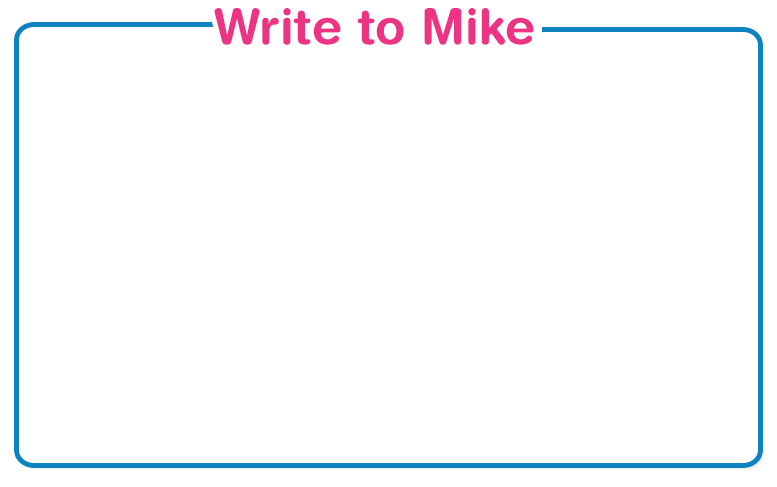
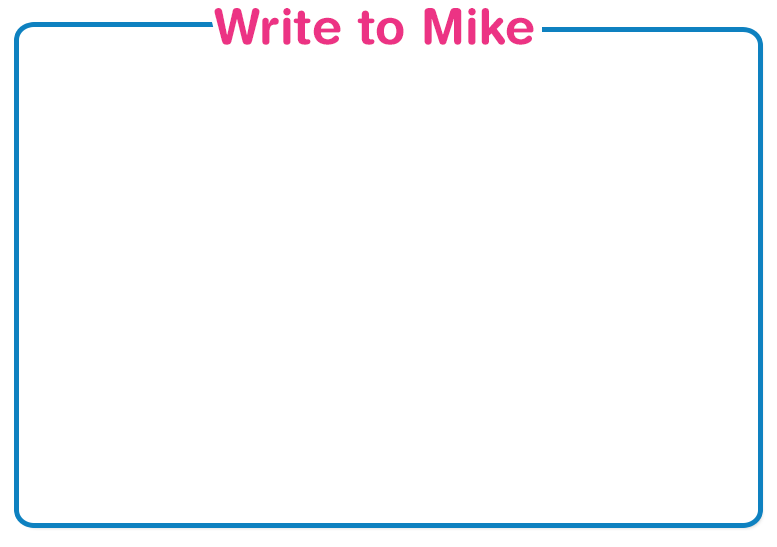
Front-end updates.

Changed region(s): [[0.0, 0.924, 0.9884, 0.9856], [0.0, 0.0308, 0.9884, 0.0924], [0.5869, 0.0, 0.6178, 0.0308]]

diff --git a/Website/CSWeb/Scripts/modernizr.custom.32854.js b/Website/CSWeb/Scripts/modernizr.custom.32854.js
@@ -1,0 +1,4 @@
+/* Modernizr 2.6.2 (Custom Build) | MIT & BSD
+ * Build: http://modernizr.com/download/#-input-shiv-cssclasses-load
+ */
+;window.Modernizr=function(a,b,c){function u(a){j.cssText=a}function v(a,b){return u(prefixes.join(a+";")+(b||""))}function w(a,b){return typeof a===b}function x(a,b){return!!~(""+a).indexOf(b)}function y(a,b,d){for(var e in a){var f=b[a[e]];if(f!==c)return d===!1?a[e]:w(f,"function")?f.bind(d||b):f}return!1}function z(){e.input=function(c){for(var d=0,e=c.length;d<e;d++)o[c[d]]=c[d]in k;return o.list&&(o.list=!!b.createElement("datalist")&&!!a.HTMLDataListElement),o}("autocomplete autofocus list placeholder max min multiple pattern required step".split(" "))}var d="2.6.2",e={},f=!0,g=b.documentElement,h="modernizr",i=b.createElement(h),j=i.style,k=b.createElement("input"),l={}.toString,m={},n={},o={},p=[],q=p.slice,r,s={}.hasOwnProperty,t;!w(s,"undefined")&&!w(s.call,"undefined")?t=function(a,b){return s.call(a,b)}:t=function(a,b){return b in a&&w(a.constructor.prototype[b],"undefined")},Function.prototype.bind||(Function.prototype.bind=function(b){var c=this;if(typeof c!="function")throw new TypeError;var d=q.call(arguments,1),e=function(){if(this instanceof e){var a=function(){};a.prototype=c.prototype;var f=new a,g=c.apply(f,d.concat(q.call(arguments)));return Object(g)===g?g:f}return c.apply(b,d.concat(q.call(arguments)))};return e});for(var A in m)t(m,A)&&(r=A.toLowerCase(),e[r]=m[A](),p.push((e[r]?"":"no-")+r));return e.input||z(),e.addTest=function(a,b){if(typeof a=="object")for(var d in a)t(a,d)&&e.addTest(d,a[d]);else{a=a.toLowerCase();if(e[a]!==c)return e;b=typeof b=="function"?b():b,typeof f!="undefined"&&f&&(g.className+=" "+(b?"":"no-")+a),e[a]=b}return e},u(""),i=k=null,function(a,b){function k(a,b){var c=a.createElement("p"),d=a.getElementsByTagName("head")[0]||a.documentElement;return c.innerHTML="x<style>"+b+"</style>",d.insertBefore(c.lastChild,d.firstChild)}function l(){var a=r.elements;return typeof a=="string"?a.split(" "):a}function m(a){var b=i[a[g]];return b||(b={},h++,a[g]=h,i[h]=b),b}function n(a,c,f){c||(c=b);if(j)return c.createElement(a);f||(f=m(c));var g;return f.cache[a]?g=f.cache[a].cloneNode():e.test(a)?g=(f.cache[a]=f.createElem(a)).cloneNode():g=f.createElem(a),g.canHaveChildren&&!d.test(a)?f.frag.appendChild(g):g}function o(a,c){a||(a=b);if(j)return a.createDocumentFragment();c=c||m(a);var d=c.frag.cloneNode(),e=0,f=l(),g=f.length;for(;e<g;e++)d.createElement(f[e]);return d}function p(a,b){b.cache||(b.cache={},b.createElem=a.createElement,b.createFrag=a.createDocumentFragment,b.frag=b.createFrag()),a.createElement=function(c){return r.shivMethods?n(c,a,b):b.createElem(c)},a.createDocumentFragment=Function("h,f","return function(){var n=f.cloneNode(),c=n.createElement;h.shivMethods&&("+l().join().replace(/\w+/g,function(a){return b.createElem(a),b.frag.createElement(a),'c("'+a+'")'})+");return n}")(r,b.frag)}function q(a){a||(a=b);var c=m(a);return r.shivCSS&&!f&&!c.hasCSS&&(c.hasCSS=!!k(a,"article,aside,figcaption,figure,footer,header,hgroup,nav,section{display:block}mark{background:#FF0;color:#000}")),j||p(a,c),a}var c=a.html5||{},d=/^<|^(?:button|map|select|textarea|object|iframe|option|optgroup)$/i,e=/^(?:a|b|code|div|fieldset|h1|h2|h3|h4|h5|h6|i|label|li|ol|p|q|span|strong|style|table|tbody|td|th|tr|ul)$/i,f,g="_html5shiv",h=0,i={},j;(function(){try{var a=b.createElement("a");a.innerHTML="<xyz></xyz>",f="hidden"in a,j=a.childNodes.length==1||function(){b.createElement("a");var a=b.createDocumentFragment();return typeof a.cloneNode=="undefined"||typeof a.createDocumentFragment=="undefined"||typeof a.createElement=="undefined"}()}catch(c){f=!0,j=!0}})();var r={elements:c.elements||"abbr article aside audio bdi canvas data datalist details figcaption figure footer header hgroup mark meter nav output progress section summary time video",shivCSS:c.shivCSS!==!1,supportsUnknownElements:j,shivMethods:c.shivMethods!==!1,type:"default",shivDocument:q,createElement:n,createDocumentFragment:o};a.html5=r,q(b)}(this,b),e._version=d,g.className=g.className.replace(/(^|\s)no-js(\s|$)/,"$1$2")+(f?" js "+p.join(" "):""),e}(this,this.document),function(a,b,c){function d(a){return"[object Function]"==o.call(a)}function e(a){return"string"==typeof a}function f(){}function g(a){return!a||"loaded"==a||"complete"==a||"uninitialized"==a}function h(){var a=p.shift();q=1,a?a.t?m(function(){("c"==a.t?B.injectCss:B.injectJs)(a.s,0,a.a,a.x,a.e,1)},0):(a(),h()):q=0}function i(a,c,d,e,f,i,j){function k(b){if(!o&&g(l.readyState)&&(u.r=o=1,!q&&h(),l.onload=l.onreadystatechange=null,b)){"img"!=a&&m(function(){t.removeChild(l)},50);for(var d in y[c])y[c].hasOwnProperty(d)&&y[c][d].onload()}}var j=j||B.errorTimeout,l=b.createElement(a),o=0,r=0,u={t:d,s:c,e:f,a:i,x:j};1===y[c]&&(r=1,y[c]=[]),"object"==a?l.data=c:(l.src=c,l.type=a),l.width=l.height="0",l.onerror=l.onload=l.onreadystatechange=function(){k.call(this,r)},p.splice(e,0,u),"img"!=a&&(r||2===y[c]?(t.insertBefore(l,s?null:n),m(k,j)):y[c].push(l))}function j(a,b,c,d,f){return q=0,b=b||"j",e(a)?i("c"==b?v:u,a,b,this.i++,c,d,f):(p.splice(this.i++,0,a),1==p.length&&h()),this}function k(){var a=B;return a.loader={load:j,i:0},a}var l=b.documentElement,m=a.setTimeout,n=b.getElementsByTagName("script")[0],o={}.toString,p=[],q=0,r="MozAppearance"in l.style,s=r&&!!b.createRange().compareNode,t=s?l:n.parentNode,l=a.opera&&"[object Opera]"==o.call(a.opera),l=!!b.attachEvent&&!l,u=r?"object":l?"script":"img",v=l?"script":u,w=Array.isArray||function(a){return"[object Array]"==o.call(a)},x=[],y={},z={timeout:function(a,b){return b.length&&(a.timeout=b[0]),a}},A,B;B=function(a){function b(a){var a=a.split("!"),b=x.length,c=a.pop(),d=a.length,c={url:c,origUrl:c,prefixes:a},e,f,g;for(f=0;f<d;f++)g=a[f].split("="),(e=z[g.shift()])&&(c=e(c,g));for(f=0;f<b;f++)c=x[f](c);return c}function g(a,e,f,g,h){var i=b(a),j=i.autoCallback;i.url.split(".").pop().split("?").shift(),i.bypass||(e&&(e=d(e)?e:e[a]||e[g]||e[a.split("/").pop().split("?")[0]]),i.instead?i.instead(a,e,f,g,h):(y[i.url]?i.noexec=!0:y[i.url]=1,f.load(i.url,i.forceCSS||!i.forceJS&&"css"==i.url.split(".").pop().split("?").shift()?"c":c,i.noexec,i.attrs,i.timeout),(d(e)||d(j))&&f.load(function(){k(),e&&e(i.origUrl,h,g),j&&j(i.origUrl,h,g),y[i.url]=2})))}function h(a,b){function c(a,c){if(a){if(e(a))c||(j=function(){var a=[].slice.call(arguments);k.apply(this,a),l()}),g(a,j,b,0,h);else if(Object(a)===a)for(n in m=function(){var b=0,c;for(c in a)a.hasOwnProperty(c)&&b++;return b}(),a)a.hasOwnProperty(n)&&(!c&&!--m&&(d(j)?j=function(){var a=[].slice.call(arguments);k.apply(this,a),l()}:j[n]=function(a){return function(){var b=[].slice.call(arguments);a&&a.apply(this,b),l()}}(k[n])),g(a[n],j,b,n,h))}else!c&&l()}var h=!!a.test,i=a.load||a.both,j=a.callback||f,k=j,l=a.complete||f,m,n;c(h?a.yep:a.nope,!!i),i&&c(i)}var i,j,l=this.yepnope.loader;if(e(a))g(a,0,l,0);else if(w(a))for(i=0;i<a.length;i++)j=a[i],e(j)?g(j,0,l,0):w(j)?B(j):Object(j)===j&&h(j,l);else Object(a)===a&&h(a,l)},B.addPrefix=function(a,b){z[a]=b},B.addFilter=function(a){x.push(a)},B.errorTimeout=1e4,null==b.readyState&&b.addEventListener&&(b.readyState="loading",b.addEventListener("DOMContentLoaded",A=function(){b.removeEventListener("DOMContentLoaded",A,0),b.readyState="complete"},0)),a.yepnope=k(),a.yepnope.executeStack=h,a.yepnope.injectJs=function(a,c,d,e,i,j){var k=b.createElement("script"),l,o,e=e||B.errorTimeout;k.src=a;for(o in d)k.setAttribute(o,d[o]);c=j?h:c||f,k.onreadystatechange=k.onload=function(){!l&&g(k.readyState)&&(l=1,c(),k.onload=k.onreadystatechange=null)},m(function(){l||(l=1,c(1))},e),i?k.onload():n.parentNode.insertBefore(k,n)},a.yepnope.injectCss=function(a,c,d,e,g,i){var e=b.createElement("link"),j,c=i?h:c||f;e.href=a,e.rel="stylesheet",e.type="text/css";for(j in d)e.setAttribute(j,d[j]);g||(n.parentNode.insertBefore(e,n),m(c,0))}}(this,document),Modernizr.load=function(){yepnope.apply(window,[].slice.call(arguments,0))};

diff --git a/Website/CSWeb/Scripts/jquery.watermark.min.js b/Website/CSWeb/Scripts/jquery.watermark.min.js
@@ -1,0 +1,9 @@
+/*
+* jquery.watermark
+* Version 1.3.2 2013-08-03
+* @requires jQuery >= 1.3.2 or later
+*
+* Homepage: http://labs.mario.ec/jq-watermark/
+* Author: Mario Estrada <me@mario.ec>
+* License: MIT
+*/!function(a){var b=/MSIE [1-7]\./.test(navigator.userAgent),c=4;a.watermarker=function(){},a.extend(a.watermarker,{defaults:{color:"#000",left:0,top:0,fallback:!1,animDuration:300,minOpacity:.6},setDefaults:function(b){a.extend(a.watermarker.defaults,b)},checkVal:function(b,c){return 0===b.length?a(c).show():a(c).hide(),b.length>0},html5_support:function(){var a=document.createElement("input");return"placeholder"in a}}),a.fn.watermark=function(d,e){var f;return e=a.extend(a.watermarker.defaults,e),f=this.filter("textarea, input:not(:checkbox,:radio,:file,:submit,:reset)"),e.fallback&&a.watermarker.html5_support()?this:(f.each(function(){var f,g,h,i,j,k,l,m=0;f=a(this),"processed"!==f.attr("data-jq-watermark")&&(g=void 0!==f.attr("placeholder")&&""!==f.attr("placeholder")?"placeholder":"title",h=void 0===d||""===d?a(this).attr(g):d,i=a('<span class="watermark_container"></span>'),j=a('<span class="watermark">'+h+"</span>"),"placeholder"===g&&f.removeAttr("placeholder"),i.css({display:"inline-block",position:"relative"}),"true"===f.attr("data-percent-width")&&i.css("width","100%"),"true"===f.attr("data-percent-height")&&i.css("height","100%"),b&&i.css({zoom:1,display:"inline"}),f.wrap(i).attr("data-jq-watermark","processed"),"textarea"===this.nodeName.toLowerCase()?(l=f.css("line-height"),l="normal"===l?parseInt(f.css("font-size"),10):l,m="auto"!==f.css("padding-top")?parseInt(f.css("padding-top"),10):0):(l=f.outerHeight(),0>=l&&(l="auto"!==f.css("padding-top")?parseInt(f.css("padding-top"),10):0,l+="auto"!==f.css("padding-bottom")?parseInt(f.css("padding-bottom"),10):0,l+="auto"!==f.css("height")?parseInt(f.css("height"),10):0)),m+="auto"!==f.css("margin-top")?parseInt(f.css("margin-top"),10):0,k="auto"!==f.css("margin-left")?parseInt(f.css("margin-left"),10):0,k+="auto"!==f.css("padding-left")?parseInt(f.css("padding-left"),10):0,j.css({position:"absolute",display:"block",fontFamily:f.css("font-family"),fontWeight:f.css("font-weight"),fontSize:f.css("font-size"),color:e.color,left:c+e.left+k,top:e.top+m,height:l,lineHeight:l+"px",textAlign:"left",pointerEvents:"none"}).data("jq_watermark_element",f),a.watermarker.checkVal(f.val(),j),j.click(function(){a(a(this).data("jq_watermark_element")).trigger("click").trigger("focus")}),f.before(j).bind("focus.jq_watermark",function(){a.watermarker.checkVal(a(this).val(),j)||j.stop().fadeTo(e.animDuration,e.minOpacity)}).bind("blur.jq_watermark change.jq_watermark",function(){a.watermarker.checkVal(a(this).val(),j)||j.stop().fadeTo(e.animDuration,1)}).bind("keydown.jq_watermark, paste.jq_watermark",function(){a(j).hide()}).bind("keyup.jq_watermark",function(){a.watermarker.checkVal(a(this).val(),j)}))}),this)},a(function(){a(".jq_watermark").watermark()})}(jQuery);

diff --git a/Website/CSWeb/Scripts/placeholder2.js b/Website/CSWeb/Scripts/placeholder2.js
@@ -1,0 +1,60 @@
+$(document).ready(function() {
+if(!Modernizr.input.placeholder){
+  $("input").each(
+  function(){
+    var inputField = $(this);
+    if(inputField.val()=="" && inputField.attr("placeholder")!=""){
+    
+      inputField.val(inputField.attr("placeholder"));
+      
+      inputField.focus(function(){
+        if(inputField.val()==inputField.attr("placeholder")){ inputField.val(""); }
+      });
+      
+      inputField.blur(function(){
+        if(inputField.val()==""){ inputField.val(inputField.attr("placeholder")); }
+      });
+      
+      $(inputField).closest('form').submit(function(){
+        var form = $(this);
+        if(!form.hasClass('placeholderPending')){
+          $('input',this).each(function(){
+            var clearInput = $(this);
+            if(clearInput.val()==clearInput.attr("placeholder")){ clearInput.val(""); }
+          });
+          form.addClass('placeholderPending');
+        }
+      });
+    
+    }
+  });
+  $("textarea").each(
+  function(){
+    var inputField = $(this);
+    if(inputField.val()=="" && inputField.attr("placeholder")!=""){
+    
+      inputField.val(inputField.attr("placeholder"));
+      
+      inputField.focus(function(){
+        if(inputField.val()==inputField.attr("placeholder")){ inputField.val(""); }
+      });
+      
+      inputField.blur(function(){
+        if(inputField.val()==""){ inputField.val(inputField.attr("placeholder")); }
+      });
+      
+      $(inputField).closest('form').submit(function(){
+        var form = $(this);
+        if(!form.hasClass('placeholderPending')){
+          $('input',this).each(function(){
+            var clearInput = $(this);
+            if(clearInput.val()==clearInput.attr("placeholder")){ clearInput.val(""); }
+          });
+          form.addClass('placeholderPending');
+        }
+      });
+    
+    }
+  });
+}
+});

diff --git a/Website/CSWeb/Scripts/placeholder-shiv.jquery.js b/Website/CSWeb/Scripts/placeholder-shiv.jquery.js
@@ -1,0 +1,40 @@
+$(document).ready(function() {
+  var _test = document.createElement('input');
+  if( ! ('placeholder' in _test) ){
+  //we are in the presence of a less-capable browser
+
+    //put in initial placeholder text
+    $('*[placeholder]').each(function () {
+      var $self = $(this);
+      //First check to make sure the value is nothing
+      if ( $self.val() === '' ) {
+        $self.val($self.attr('placeholder'));
+      }
+    });
+
+    $(document).on({
+      focus: function() {
+        var input = $(this);
+        if (input.val() === input.attr('placeholder')) {
+          input.val('');
+          input.removeClass('placeholder');
+        }
+      },
+      blur: function() {
+        var input = $(this);
+        if (input.val() === '' || input.val() === input.attr('placeholder')) {
+          input.addClass('placeholder');
+          input.val(input.attr('placeholder'));
+        }
+      }
+    },"input[placeholder]");
+    $(document).on("submit","form",function() {
+      $(this).find('input[placeholder]').each(function() {
+        var input = $(this);
+        if (input.val() === input.attr('placeholder')) {
+          input.val('');
+        }
+      });
+    });
+  }
+});

diff --git a/Website/CSWeb/Styles/global_a2.css b/Website/CSWeb/Styles/global_a2.css
@@ -1072,8 +1072,13 @@ h1.seo, h2.seo, h3.seo {position: absolute; top: 0; left: -9999px; height: 0;}
 
 #write_to_mike {
 	width: 777px;
-	height: 487px;
+	height: 547px;
 	background: url(/content/images/write_to_mike.png) no-repeat 0 0;
+}
+
+#write_to_mike span.error-1 {
+	position: absolute;
+	top: -17px
 }
 
 #contact_form {

diff --git a/Website/CSWeb/Scripts/global_a3.js b/Website/CSWeb/Scripts/global_a3.js
@@ -115,7 +115,7 @@ $(function() {
         wrapCSS: 'nowrapper',
         padding: 0,
         width: 777,
-        height: 487,
+        height: 547,
 		type: 'iframe',
         autoSize: false,
         closeClick: false,

diff --git a/Website/CSWeb/Scripts/global_a2.js b/Website/CSWeb/Scripts/global_a2.js
@@ -90,7 +90,7 @@ $(function() {
         wrapCSS: 'nowrapper',
         padding: 0,
         width: 777,
-        height: 487,
+        height: 547,
 		type: 'iframe',
         autoSize: false,
         closeClick: false,

diff --git a/Website/CSWeb/Scripts/global_a4.js b/Website/CSWeb/Scripts/global_a4.js
@@ -90,7 +90,7 @@ $(function() {
         wrapCSS: 'nowrapper',
         padding: 0,
         width: 777,
-        height: 487,
+        height: 547,
 		type: 'iframe',
         autoSize: false,
         closeClick: false,

diff --git a/Website/CSWeb/Scripts/global_a5.js b/Website/CSWeb/Scripts/global_a5.js
@@ -90,7 +90,7 @@ $(function() {
         wrapCSS: 'nowrapper',
         padding: 0,
         width: 777,
-        height: 487,
+        height: 547,
 		type: 'iframe',
         autoSize: false,
         closeClick: false,
